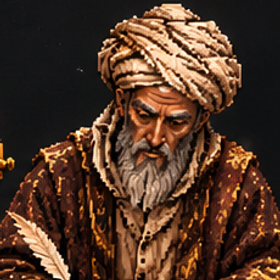
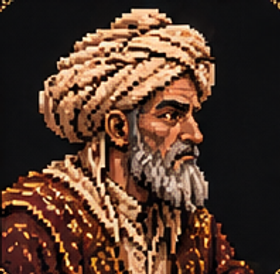
Al-Khwārizmī from the owner's full character sheet
Front view with his book (pointing when he talks) and the back view, his
astrolabe and celestial globe beside him, a close-up portrait for his
card and six more scenes in his gallery. Supplied art can now be placed
in the room.

Claude-Session: https://claude.ai/code/session_01QsGb9hcDKqL5Q4XWvrw6Z3

diff --git a/tools/prepare-khwarizmi.ts b/tools/prepare-khwarizmi.ts
@@ -1,72 +1,156 @@
+import { execFileSync } from 'node:child_process';
 import fs from 'node:fs';
 import sharp from 'sharp';
 
 /*
- * Al-Khwārizmī's in-world look from the owner's "at work" sheet (2026-11):
- * the standing figure of its last panel, seen from behind holding a scroll,
- * becomes his sprite and his animation strips (224×336 frames, feet at
- * 112,320, a slow breath), and the first panel's head and shoulders become
- * his story-card picture.
+ * Al-Khwārizmī from the owner's character sheet (2026-11): full-body front
+ * (holding his book), pointing and back views become his sprite and
+ * animation strips (224×336 frames, feet at 112,320, a slow breath); his
+ * astrolabe and celestial globe become lab pieces; the close-up portrait is
+ * his card picture; and the desk and kneeling scenes join his gallery.
+ * People-free props only; the telescope (invented c. 1608) is left out.
  *
- *   node --import tsx tools/prepare-khwarizmi.ts <cut figure.png> <sheet.png>
+ *   node --import tsx tools/prepare-khwarizmi.ts <character sheet.png>
  */
-const [figure, sheet] = process.argv.slice(2);
+const [sheet] = process.argv.slice(2);
+const tmp = fs.mkdtempSync('/tmp/khwarizmi-');
+function cut(name: string, box: number[], edits: string[]) {
+  const out = `${tmp}/${name}.png`;
+  execFileSync('node', [
+    '--import',
+    'tsx',
+    'tools/prepare-landmark.ts',
+    sheet,
+    out,
+    ...box.map(String),
+    ...edits,
+  ]);
+  return out;
+}
+const FIG = ['tol=10', 'nofringe', 'keepholes', 'largest'];
+const front = cut('front', [12, 518, 214, 342], FIG),
+  point = cut('point', [674, 518, 238, 342], ['erase=172,262,237,341', ...FIG]),
+  back = cut('back', [487, 518, 174, 342], FIG);
 const FW = 224,
   FH = 336,
   FOOT = 320,
   HEIGHT = 292;
-const body = await sharp(figure)
-  .trim({ threshold: 0 })
-  .resize({ height: HEIGHT, kernel: 'lanczos3' })
-  .png()
-  .toBuffer();
-const meta = await sharp(body).metadata();
-fs.copyFileSync(figure, 'art/sprites/al-khwarizmi.png');
-// Four frames of a slow breath: the figure stretches by up to 1.2%.
-const frames: Buffer[] = [];
-for (const k of [0, 0.006, 0.012, 0.006]) {
-  const h = Math.round(HEIGHT * (1 + k));
-  const f = await sharp(body)
-    .resize({ width: meta.width, height: h, fit: 'fill' })
+/** Four frames of a slow breath (the figure stretches by up to 1.2%). */
+async function breathing(file: string) {
+  const body = await sharp(file)
+    .trim({ threshold: 0 })
+    .resize({ height: HEIGHT, kernel: 'lanczos3' })
     .png()
     .toBuffer();
-  frames.push(
-    await sharp({
-      create: {
-        width: FW,
-        height: FH,
-        channels: 4,
-        background: { r: 0, g: 0, b: 0, alpha: 0 },
-      },
-    })
-      .composite([
-        { input: f, left: Math.round(FW / 2 - meta.width! / 2), top: FOOT - h },
-      ])
+  const w = (await sharp(body).metadata()).width!;
+  const frames: Buffer[] = [];
+  for (const k of [0, 0.006, 0.012, 0.006]) {
+    const h = Math.round(HEIGHT * (1 + k));
+    const f = await sharp(body)
+      .resize({ width: w, height: h, fit: 'fill' })
       .png()
-      .toBuffer(),
-  );
-}
-const strip = await sharp({
-  create: {
-    width: FW * 4,
-    height: FH,
-    channels: 4,
-    background: { r: 0, g: 0, b: 0, alpha: 0 },
-  },
-})
-  .composite(frames.map((input, i) => ({ input, left: i * FW, top: 0 })))
-  .png()
-  .toBuffer();
-for (const action of ['idle', 'talk'])
-  for (const view of ['NE', 'SE'])
-    fs.writeFileSync(
-      `art/sprites/anim/al-khwarizmi__${action}_${view}.png`,
-      strip,
+      .toBuffer();
+    frames.push(
+      await sharp({
+        create: {
+          width: FW,
+          height: FH,
+          channels: 4,
+          background: { r: 0, g: 0, b: 0, alpha: 0 },
+        },
+      })
+        .composite([
+          { input: f, left: Math.round(FW / 2 - w / 2), top: FOOT - h },
+        ])
+        .png()
+        .toBuffer(),
     );
-// The card picture: head and shoulders from the first panel (writing).
+  }
+  return sharp({
+    create: {
+      width: FW * 4,
+      height: FH,
+      channels: 4,
+      background: { r: 0, g: 0, b: 0, alpha: 0 },
+    },
+  })
+    .composite(frames.map((input, i) => ({ input, left: i * FW, top: 0 })))
+    .png()
+    .toBuffer();
+}
+fs.copyFileSync(front, 'art/sprites/al-khwarizmi.png');
+fs.copyFileSync(back, 'art/sprites/al-khwarizmi-back.png');
+const backStrip = await breathing(back);
+fs.writeFileSync(
+  'art/sprites/anim/al-khwarizmi__idle_SE.png',
+  await breathing(front),
+);
+fs.writeFileSync(
+  'art/sprites/anim/al-khwarizmi__talk_SE.png',
+  await breathing(point),
+);
+fs.writeFileSync('art/sprites/anim/al-khwarizmi__idle_NE.png', backStrip);
+fs.writeFileSync('art/sprites/anim/al-khwarizmi__talk_NE.png', backStrip);
+// Card picture: the close-up portrait.
 await sharp(sheet)
-  .extract({ left: 120, top: 40, width: 230, height: 230 })
+  .extract({ left: 10, top: 12, width: 198, height: 194 })
   .resize({ width: 280 })
   .png()
   .toFile('art/illustrations/al-khwarizmi.png');
-console.log('done', meta.width, meta.height);
+// Gallery: the desk scenes and the kneeling scene, after the first eight.
+const scenes = [
+  [10, 222, 340, 282],
+  [356, 222, 328, 282],
+  [690, 222, 270, 282],
+  [966, 222, 272, 282],
+  [1244, 222, 282, 282],
+  [934, 518, 302, 342],
+];
+let n = 8;
+for (const [l, t, w, h] of scenes)
+  await sharp(sheet)
+    .extract({ left: l, top: t, width: w, height: h })
+    .resize({ width: 300 })
+    .png({ palette: true, quality: 92 })
+    .toFile(`art/gallery/al-khwarizmi/${n++}.png`);
+// Instruments for the lab: the astrolabe and the celestial globe.
+const index = JSON.parse(fs.readFileSync('art/supplied/index.json', 'utf8'));
+for (const [id, box, edits, height] of [
+  ['sup-astrolabe', [1205, 878, 72, 112], ['tol=12'], 40],
+  [
+    'sup-globe',
+    [1272, 888, 58, 116],
+    ['erase=56,0,57,115', 'tol=12', 'keepholes'],
+    38,
+  ],
+] as [string, number[], string[], number][]) {
+  const file = `art/supplied/${id}.png`;
+  fs.copyFileSync(cut(id, box, edits), file);
+  const { data, info } = await sharp(file)
+    .raw()
+    .toBuffer({ resolveWithObject: true });
+  let bottom = 0,
+    sx = 0,
+    c = 0;
+  for (let y = 0; y < info.height; y++)
+    for (let x = 0; x < info.width; x++)
+      if (data[(y * info.width + x) * 4 + 3]) bottom = y;
+  for (let y = bottom - 4; y <= bottom; y++)
+    for (let x = 0; x < info.width; x++)
+      if (data[(y * info.width + x) * 4 + 3]) {
+        sx += x;
+        c++;
+      }
+  index[id] = {
+    file: `supplied/${id}.png`,
+    anchor: [Math.round(sx / c), bottom],
+    density: +(info.height / height).toFixed(3),
+    source:
+      'Owner-supplied Al-Khwārizmī character sheet (2026-11), cut by tools/prepare-khwarizmi.ts',
+  };
+}
+fs.writeFileSync(
+  'art/supplied/index.json',
+  JSON.stringify(index, null, 2) + '\n',
+);
+console.log('done');

diff --git a/tools/build/index.ts b/tools/build/index.ts
@@ -689,6 +689,16 @@ async function build() {
   const objectLayer = room.layers.find((l) => l.type === 'objectgroup');
   if (objectLayer?.type === 'objectgroup')
     for (const o of objectLayer.objects) {
+      // Supplied art placed in the room (art/supplied): planted like
+      // Massawa's pieces, standing on the footprint's centre.
+      if (!objectArt[o.type] && suppliedArt[o.type]) {
+        replaced.push([
+          o.type,
+          o.x + o.footprint[0] / 2,
+          o.y + o.footprint[1] / 2,
+        ]);
+        continue;
+      }
       const art = objectArt[o.type];
       if (!art) throw Error(`Unknown room object ${o.type}`);
       if (o.walkable && bakedIntoFloor(o.type, art)) continue;
@@ -1087,7 +1097,7 @@ async function build() {
   if (objectLayer?.type === 'objectgroup')
     for (const o of objectLayer.objects) {
       const art = objectArt[o.type];
-      if (!o.walkable || !bakedIntoFloor(o.type, art)) continue;
+      if (!art || !o.walkable || !bakedIntoFloor(o.type, art)) continue;
       const im = await image(`art/${art.file}`),
         p = worldFromTile(o.x, o.y, o.z);
       blit(

diff --git a/tools/placeholder/modern-quarter.ts b/tools/placeholder/modern-quarter.ts
@@ -62,7 +62,9 @@ function footprintOf(type: string): Pt {
     (id.startsWith('detail-')
       ? detailFootprints[id.slice(7) as DetailType]
       : undefined) ??
-    legacyFootprints[id];
+    legacyFootprints[id] ??
+    // Small supplied pieces (art/supplied) placed in the room.
+    (id.startsWith('sup-') ? ([0.6, 0.6] as Pt) : undefined);
   if (!f) throw Error(`Unknown object type ${type}`);
   return side ? [f[1], f[0]] : [f[0], f[1]];
 }
@@ -586,6 +588,9 @@ export function modernQuarter() {
    */
   // No back wall (owner's request): the lab is open to the lawn.
   obj('m-board-partition-side', 7.0, 41.5);
+  // Al-Khwārizmī's astrolabe and celestial globe (his character sheet).
+  obj('sup-astrolabe', 9.3, 44.0);
+  obj('sup-globe', 7.2, 45.2);
   obj('m-model-case-side', 7.05, 48.4);
   obj('m-whiteboard', 15.0, 45.6);
   obj('m-seminar-table', 9.5, 50.6);

diff --git a/DECISIONS.md b/DECISIONS.md
@@ -97,3 +97,8 @@
     - **In the world:** his sprite and strips are the sheet's standing figure, cut by `tools/prepare-khwarizmi.ts` with a slow breathing motion. He is seen from behind at the board, holding a scroll, so his depiction is `back` (NW).
     - **Story card:** the picture is the head and shoulders from the sheet's first panel, with the eight-panel "At work" gallery below it.
     - **Cutting tool:** the landmark cutter gained `tol` and `nofringe`, for dark art on a dark backdrop.
+60. Al-Khwārizmī from the owner's full character sheet (cut by `tools/prepare-khwarizmi.ts`):
+    - **In the lab:** he is the full-body front view, holding his book, and turns to the pointing pose while he talks. Seen from behind (NE/NW), he shows the sheet's back view, so his depiction is `full` again.
+    - **Instruments:** his astrolabe and celestial globe stand beside him; supplied art can now be placed in the room.
+    - **Story card:** the picture is the sheet's close-up portrait, and the desk and kneeling scenes join his gallery, which now has 14 pictures.
+    - **Left out:** the telescope is not used, because it was invented about 750 years after him; so are the walking strip (too small) and the compass and ruler (the drafting set already has them).
